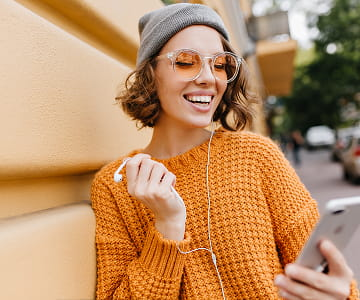
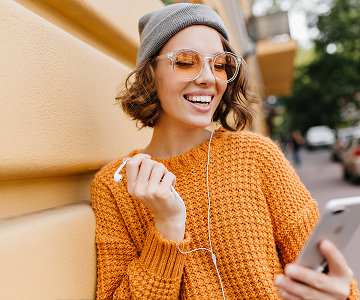
Add @2x images
Add high-resolution (@2x)

diff --git a/index.html b/index.html
@@ -147,6 +147,10 @@
             <li class="team-item">
               <img
                 class="team-img"
+                srcset="
+                  ./images/team/foto-1.jpg    1x,
+                  ./images/team/foto-1@2x.jpg 2x
+                "
                 src="./images/team/foto-1.jpg"
                 alt="Mark Guerrero - Product Designer"
                 width="264"
@@ -197,6 +201,10 @@
             <li class="team-item">
               <img
                 class="team-img"
+                srcset="
+                  ./images/team/foto-2.jpg    1x,
+                  ./images/team/foto-2@2x.jpg 2x
+                "
                 src="./images/team/foto-2.jpg"
                 alt="Tom Ford - Frontend Developer"
                 width="264"
@@ -247,6 +255,10 @@
             <li class="team-item">
               <img
                 class="team-img"
+                srcset="
+                  ./images/team/foto-3.jpg    1x,
+                  ./images/team/foto-3@2x.jpg 2x
+                "
                 src="./images/team/foto-3.jpg"
                 alt="Camila Garcia - Marketing"
                 width="264"
@@ -297,6 +309,10 @@
             <li class="team-item">
               <img
                 class="team-img"
+                srcset="
+                  ./images/team/foto-4.jpg    1x,
+                  ./images/team/foto-4@2x.jpg 2x
+                "
                 src="./images/team/foto-4.jpg"
                 alt="Daniel Wilson - UI Designer"
                 width="264"
@@ -357,6 +373,10 @@
               <div class="portfolio-thumb">
                 <img
                   class="portfolio-img"
+                  srcset="
+                    ./images/portfolio/img-1.jpg    1x,
+                    ./images/portfolio/img-1@2x.jpg 2x
+                  "
                   src="./images/portfolio/img-1.jpg"
                   alt="Banking App"
                   width="360"
@@ -378,6 +398,10 @@
               <div class="portfolio-thumb">
                 <img
                   class="portfolio-img"
+                  srcset="
+                    ./images/portfolio/img-2.jpg    1x,
+                    ./images/portfolio/img-2@2x.jpg 2x
+                  "
                   src="./images/portfolio/img-2.jpg"
                   alt="Cashless Payment"
                   width="360"
@@ -399,6 +423,10 @@
               <div class="portfolio-thumb">
                 <img
                   class="portfolio-img"
+                  srcset="
+                    ./images/portfolio/img-3.jpg    1x,
+                    ./images/portfolio/img-3@2x.jpg 2x
+                  "
                   src="./images/portfolio/img-3.jpg"
                   alt="Meditation App"
                   width="360"
@@ -420,6 +448,10 @@
               <div class="portfolio-thumb">
                 <img
                   class="portfolio-img"
+                  srcset="
+                    ./images/portfolio/img-4.jpg    1x,
+                    ./images/portfolio/img-4@2x.jpg 2x
+                  "
                   src="./images/portfolio/img-4.jpg"
                   alt="Taxi Service"
                   width="360"
@@ -441,6 +473,10 @@
               <div class="portfolio-thumb">
                 <img
                   class="portfolio-img"
+                  srcset="
+                    ./images/portfolio/img-5.jpg    1x,
+                    ./images/portfolio/img-5@2x.jpg 2x
+                  "
                   src="./images/portfolio/img-5.jpg"
                   alt="Screen Illustrations"
                   width="360"
@@ -462,6 +498,10 @@
               <div class="portfolio-thumb">
                 <img
                   class="portfolio-img"
+                  srcset="
+                    ./images/portfolio/img-6.jpg    1x,
+                    ./images/portfolio/img-6@2x.jpg 2x
+                  "
                   src="./images/portfolio/img-6.jpg"
                   alt="Online Courses"
                   width="360"
